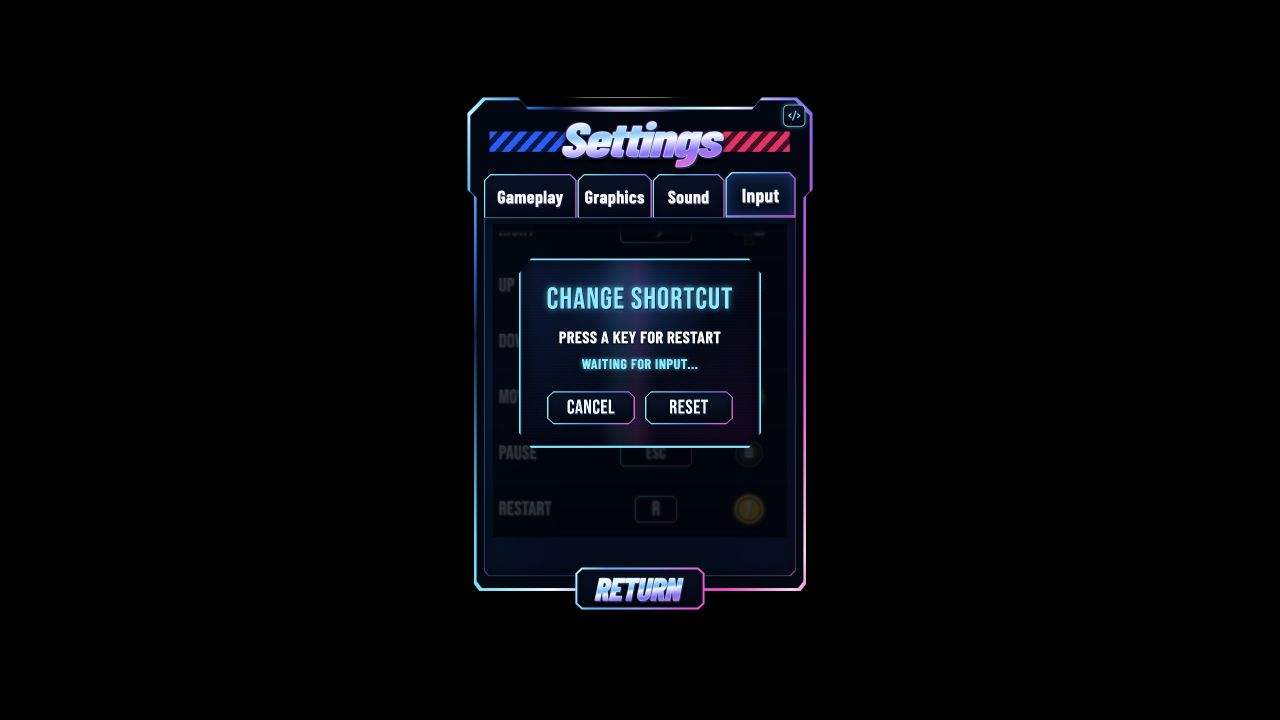
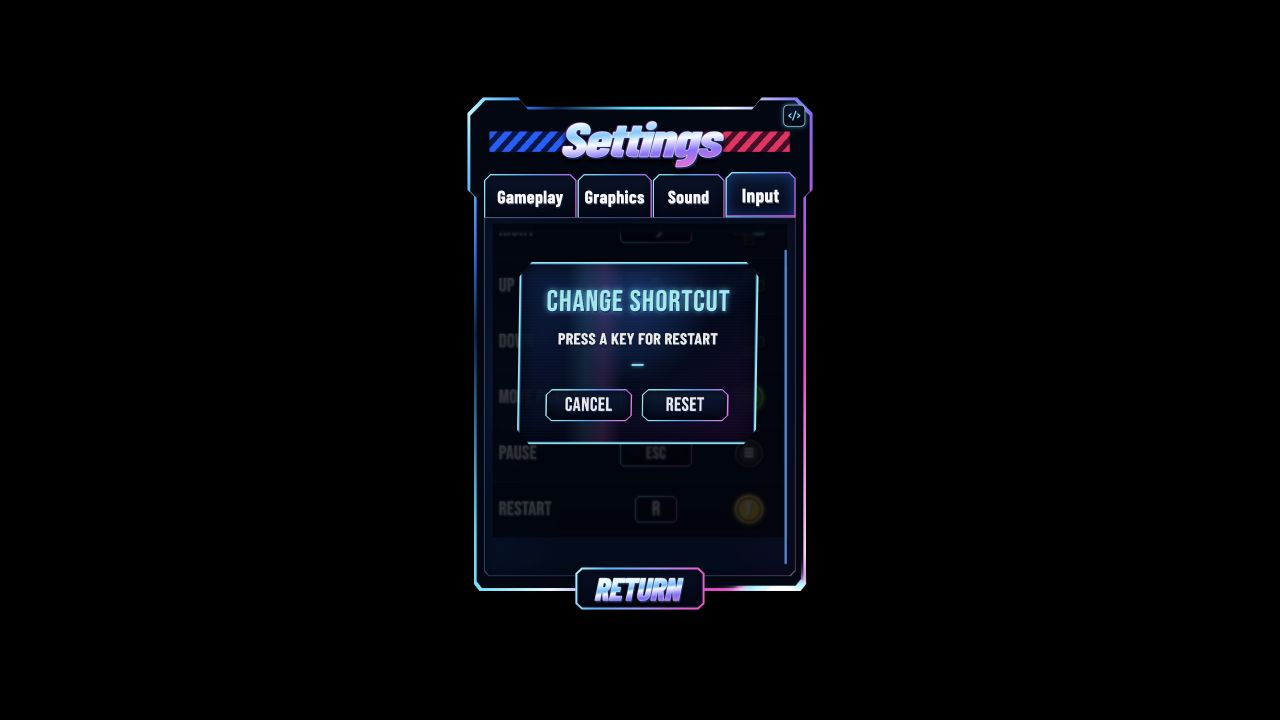
refactor: simplify shortcut capture prompt

Changed region(s): [[0.4062, 0.3361, 0.625, 0.6417], [0.5625, 0.7944, 0.6562, 0.825], [0.4375, 0.1222, 0.5312, 0.1528]]

diff --git a/app/components/InputSettings.tsx b/app/components/InputSettings.tsx
@@ -5,6 +5,7 @@ import { ArrowDownIcon } from "@phosphor-icons/react/dist/csr/ArrowDown";
 import { ArrowLeftIcon } from "@phosphor-icons/react/dist/csr/ArrowLeft";
 import { ArrowRightIcon } from "@phosphor-icons/react/dist/csr/ArrowRight";
 import { ArrowUpIcon } from "@phosphor-icons/react/dist/csr/ArrowUp";
+import { motion } from "framer-motion";
 import { controlInnerClip, controlOuterClip, ClippedInset } from "./ClippedInset";
 import { ControllerButton, DPadIcon } from "./InputBindingIcons";
 import { settingsRowHeight } from "./SettingRow";
@@ -216,10 +217,12 @@ export function InputSettings() {
           Press a key for {editingBinding?.action}
         </span>
         <span
+          aria-label={conflictAction ? undefined : "Waiting for input"}
           aria-live="polite"
           style={{
             display: "block",
-            marginTop: 30,
+            minHeight: 42,
+            marginTop: 24,
             color: conflictAction ? "#ff5576" : "#67efff",
             fontSize: 40,
             letterSpacing: 1.5,
@@ -228,7 +231,23 @@ export function InputSettings() {
               : "0 0 12px rgba(45,221,255,.72)",
           }}
         >
-          {conflictAction ? `Already used by ${conflictAction}` : "Waiting for input..."}
+          {conflictAction ? (
+            `Already used by ${conflictAction}`
+          ) : (
+            <motion.span
+              aria-hidden="true"
+              animate={reduceMotion ? undefined : { opacity: [1, 1, 0.08, 0.08, 1] }}
+              transition={{ duration: 1.05, ease: "linear", repeat: Infinity }}
+              style={{
+                display: "inline-block",
+                width: 34,
+                height: 5,
+                marginBottom: 5,
+                background: "#67efff",
+                boxShadow: "0 0 10px rgba(45,221,255,.9)",
+              }}
+            />
+          )}
         </span>
       </ArcadeModal>
     </>
